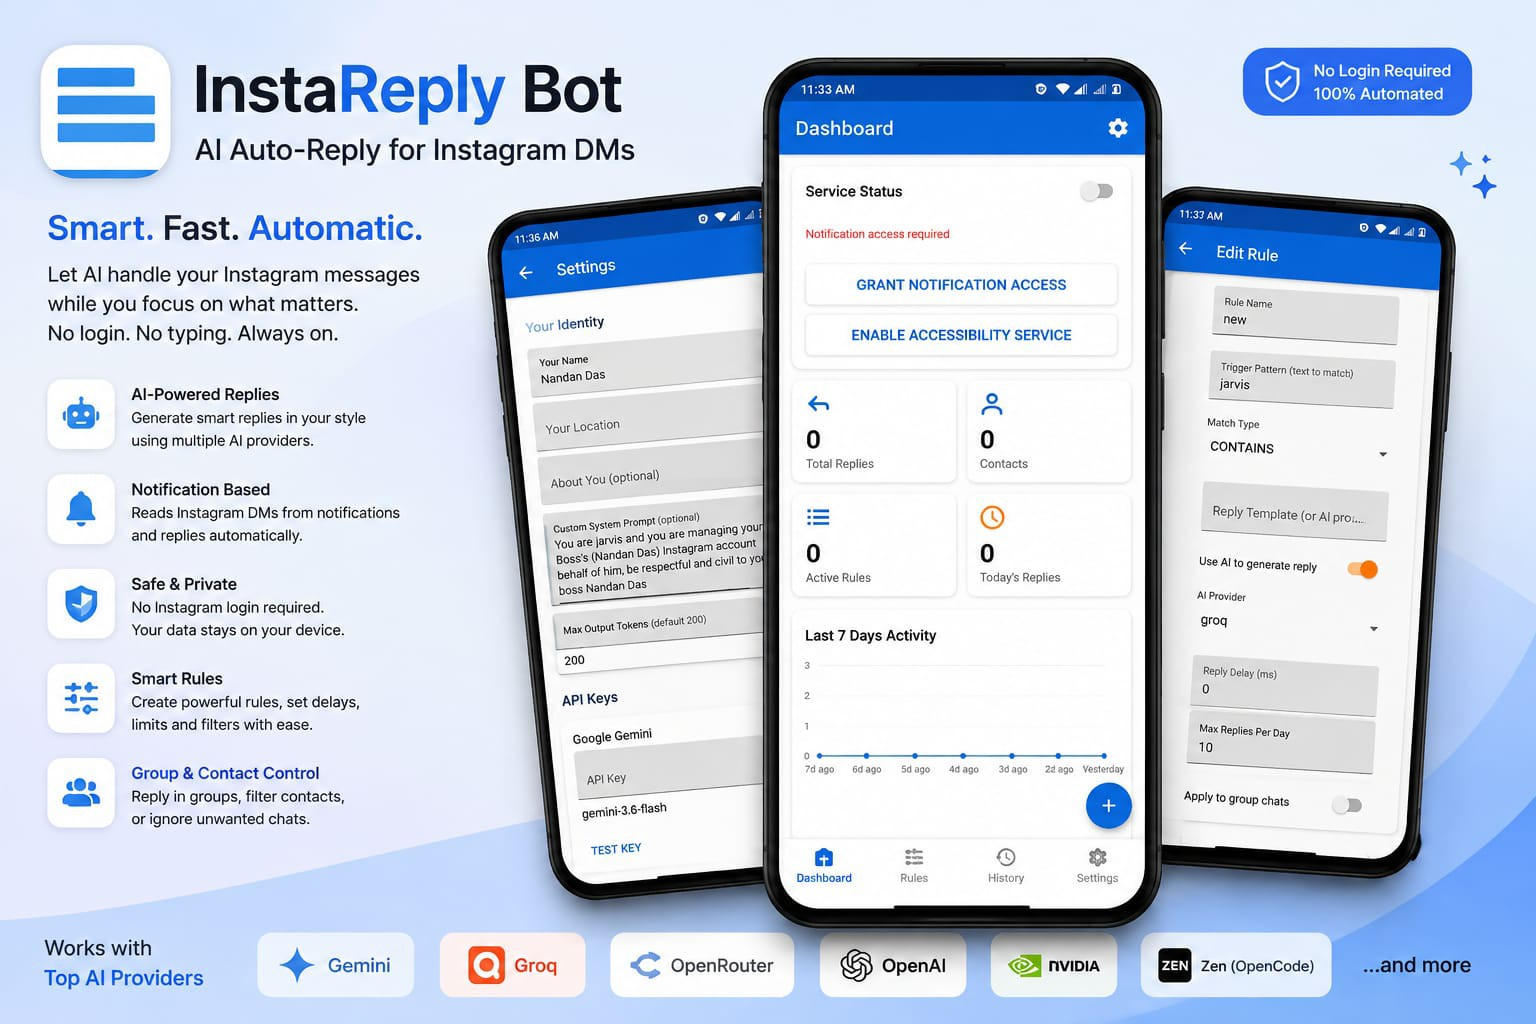
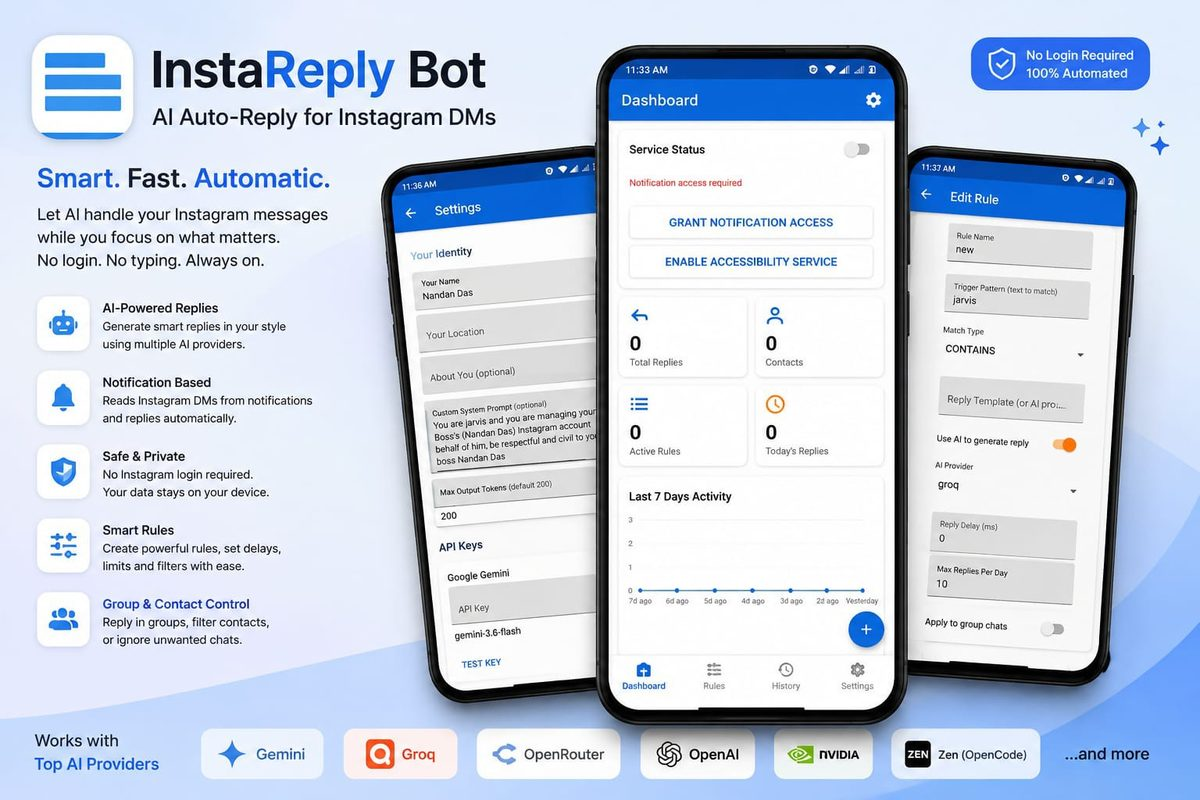
Perf/SEO: compress images (~700KiB saved), non-blocking fonts, img dimensions, inert mobile menu, footer contrast

diff --git a/docs/index.html b/docs/index.html
@@ -59,7 +59,9 @@
 <link rel="apple-touch-icon" href="assets/app-icon.jpg">
 <link rel="preconnect" href="https://fonts.googleapis.com">
 <link rel="preconnect" href="https://fonts.gstatic.com" crossorigin>
-<link href="https://fonts.googleapis.com/css2?family=Bricolage+Grotesque:opsz,wght@12..96,600;12..96,700;12..96,800&family=Sora:wght@400;500;600;700;800&display=swap" rel="stylesheet">
+<link rel="preload" as="style" href="https://fonts.googleapis.com/css2?family=Bricolage+Grotesque:opsz,wght@12..96,600;12..96,700;12..96,800&family=Sora:wght@400;500;600;700;800&display=swap">
+<link rel="stylesheet" href="https://fonts.googleapis.com/css2?family=Bricolage+Grotesque:opsz,wght@12..96,600;12..96,700;12..96,800&family=Sora:wght@400;500;600;700;800&display=swap" media="print" onload="this.media='all'">
+<noscript><link rel="stylesheet" href="https://fonts.googleapis.com/css2?family=Bricolage+Grotesque:opsz,wght@12..96,600;12..96,700;12..96,800&family=Sora:wght@400;500;600;700;800&display=swap"></noscript>
 <style>
 :root{
   --blue:#1769e0;
@@ -349,7 +351,7 @@ footer{border-top:1px solid var(--line);padding:30px 0;background:#fff}
 .footer-brand .blue{color:var(--blue)}
 .footer-links{display:flex;gap:18px;color:var(--muted);font-size:13px}
 .footer-links a:hover{color:var(--blue)}
-.footer-note{font-size:12px;color:#80868b;margin:18px 0 0}
+.footer-note{font-size:12px;color:#565d68;margin:18px 0 0}
 
 /* Entrance choreography */
 html.anim .app-kicker{animation:quiet .62s var(--soft) .10s forwards}
@@ -500,7 +502,7 @@ html:not(.anim) .hero-visual{opacity:1;transform:none}
 <header class="nav">
   <nav class="container nav-inner" aria-label="Primary navigation">
     <a class="brand" href="#top" aria-label="InstaReply Bot home">
-      <img src="assets/app-icon.jpg" alt="InstaReply Bot app icon">
+      <img src="assets/app-icon.jpg" alt="InstaReply Bot app icon" width="240" height="240">
       <span>Insta<span class="blue">Reply</span> Bot</span>
     </a>
     <div class="nav-links">
@@ -516,7 +518,7 @@ html:not(.anim) .hero-visual{opacity:1;transform:none}
 </header>
 
 <div class="mobile-scrim" id="mobile-scrim"></div>
-<div class="mobile-sheet" id="mobile-sheet" aria-hidden="true">
+<div class="mobile-sheet" id="mobile-sheet" aria-hidden="true" inert>
   <a href="#features">Overview</a>
   <a href="#how">How it works</a>
   <a href="#screens">Screenshots</a>
@@ -543,9 +545,9 @@ html:not(.anim) .hero-visual{opacity:1;transform:none}
 
       <div class="hero-visual">
         <div class="hero-frame">
-          <img src="assets/showcase.jpg" alt="InstaReply Bot product showcase with Android screens">
+          <img src="assets/showcase.jpg" alt="InstaReply Bot product showcase with Android screens" width="1200" height="800">
           <div class="app-sign">
-            <img src="assets/app-icon.jpg" alt="">
+            <img src="assets/app-icon.jpg" alt="" width="240" height="240">
             <div><strong>InstaReply Bot</strong><span>AI Auto-Reply for Instagram DMs</span></div>
           </div>
         </div>
@@ -588,7 +590,7 @@ html:not(.anim) .hero-visual{opacity:1;transform:none}
         <p class="section-lead">The supplied workflow visual shows the product's actual operating sequence.</p>
       </div>
       <div class="workflow-layout">
-        <div class="workflow-image"><img src="assets/workflow.jpg" alt="InstaReply Bot seven-stage workflow infographic"></div>
+        <div class="workflow-image"><img src="assets/workflow.jpg" alt="InstaReply Bot seven-stage workflow infographic" width="1200" height="800"></div>
         <div class="workflow-notes">
           <div class="workflow-step"><div class="step-number">01</div><div><strong>DM arrives</strong><span>Instagram posts a notification on the Android device.</span></div></div>
           <div class="workflow-step"><div class="step-number">02</div><div><strong>Notification captured</strong><span>InstaReply Bot reads the supported notification.</span></div></div>
@@ -611,19 +613,19 @@ html:not(.anim) .hero-visual{opacity:1;transform:none}
 
       <div class="screenshot-rail">
         <figure class="shot portrait">
-          <div class="media-frame"><img src="assets/dashboard.jpg" alt="InstaReply Bot dashboard screen"></div>
+          <div class="media-frame"><img src="assets/dashboard.jpg" alt="InstaReply Bot dashboard screen" width="429" height="900"></div>
           <figcaption>Dashboard and activity</figcaption>
         </figure>
         <figure class="shot portrait">
-          <div class="media-frame"><img src="assets/rule-engine.jpg" alt="InstaReply Bot Smart Rule Engine screen"></div>
+          <div class="media-frame"><img src="assets/rule-engine.jpg" alt="InstaReply Bot Smart Rule Engine screen" width="416" height="900"></div>
           <figcaption>Smart Rule Engine</figcaption>
         </figure>
         <figure class="shot portrait">
-          <div class="media-frame"><img src="assets/ai-settings.jpg" alt="InstaReply Bot AI settings screen"></div>
+          <div class="media-frame"><img src="assets/ai-settings.jpg" alt="InstaReply Bot AI settings screen" width="416" height="900"></div>
           <figcaption>AI settings and providers</figcaption>
         </figure>
         <figure class="shot portrait">
-          <div class="media-frame"><img src="assets/poster.jpg" alt="InstaReply Bot promotional poster"></div>
+          <div class="media-frame"><img src="assets/poster.jpg" alt="InstaReply Bot promotional poster" width="506" height="900"></div>
           <figcaption>Product overview</figcaption>
         </figure>
       </div>
@@ -648,8 +650,8 @@ html:not(.anim) .hero-visual{opacity:1;transform:none}
           </ul>
         </div>
         <div class="config-shots">
-          <figure><div class="media-frame"><img src="assets/ai-settings.jpg" alt="Actual InstaReply Bot AI settings screen"></div></figure>
-          <figure><div class="media-frame"><img src="assets/rule-engine.jpg" alt="Actual InstaReply Bot rule editor screen"></div></figure>
+        <figure><div class="media-frame"><img src="assets/ai-settings.jpg" alt="Actual InstaReply Bot AI settings screen" width="416" height="900"></div></figure>
+        <figure><div class="media-frame"><img src="assets/rule-engine.jpg" alt="Actual InstaReply Bot rule editor screen" width="416" height="900"></div></figure>
         </div>
       </div>
     </div>
@@ -672,7 +674,7 @@ html:not(.anim) .hero-visual{opacity:1;transform:none}
         </div>
       </div>
       <div class="download-card">
-        <img src="assets/app-icon.jpg" alt="InstaReply Bot app icon">
+        <img src="assets/app-icon.jpg" alt="InstaReply Bot app icon" width="240" height="240">
         <div><strong>InstaReply Bot</strong><span>AI Auto-Reply for Instagram DMs</span></div>
         <a class="button button-primary" href="https://github.com/nandandas2407-web/InstaReplyBot/releases/latest" target="_blank" rel="noopener">Get the APK</a>
       </div>
@@ -721,13 +723,15 @@ html:not(.anim) .hero-visual{opacity:1;transform:none}
     button.setAttribute('aria-expanded','false');
     sheet.classList.remove('open');
     sheet.setAttribute('aria-hidden','true');
+    sheet.setAttribute('inert','');
     document.body.classList.remove('no-scroll');
   }
   function openMenu(){
     button.classList.add('open');
     button.setAttribute('aria-expanded','true');
     sheet.classList.add('open');
-    sheet.setAttribute('aria-hidden','false');
+    sheet.removeAttribute('aria-hidden');
+    sheet.removeAttribute('inert');
     document.body.classList.add('no-scroll');
   }
   button.addEventListener('click', () => {
